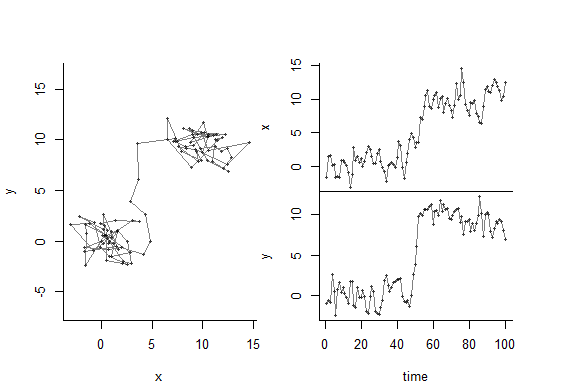
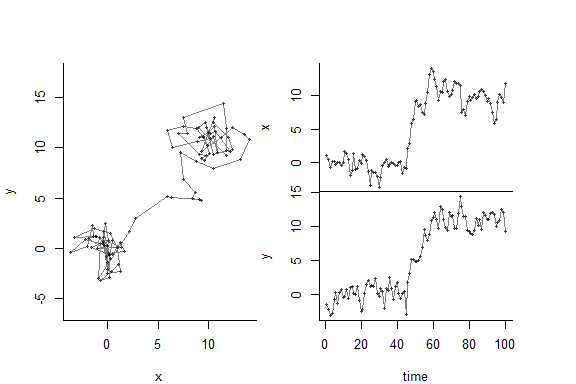
second

diff --git a/inst/doc/marcher.html b/inst/doc/marcher.html
@@ -12,7 +12,7 @@
 
 <meta name="author" content="Elie Gurarie" />
 
-<meta name="date" content="2016-12-30" />
+<meta name="date" content="2017-02-22" />
 
 <title>Migration and range change estimation: the marcher package</title>
 
@@ -70,7 +70,7 @@ code > span.in { color: #60a0b0; font-weight: bold; font-style: italic; } /* Inf
 
 <h1 class="title toc-ignore">Migration and range change estimation: the <code>marcher</code> package</h1>
 <h4 class="author"><em>Elie Gurarie</em></h4>
-<h4 class="date"><em>2016-12-30</em></h4>
+<h4 class="date"><em>2017-02-22</em></h4>
 
 
 
@@ -128,15 +128,15 @@ SimTrack &lt;-<span class="st"> </span><span class="kw">simulate.shift</span>(<s
 <p>The simulation data frame containes three columns:</p>
 <div class="sourceCode"><pre class="sourceCode r"><code class="sourceCode r"><span class="kw">head</span>(SimTrack)</code></pre></div>
 <pre><code>##   T          X          Y
-## 1 1 -1.6488553 -0.9702352
-## 2 2  1.4496027 -0.5584981
-## 3 3  1.6148577 -0.8349132
-## 4 4  0.1493029  2.6527208
-## 5 5  0.2856061  0.5563407
-## 6 6 -1.5499137 -2.4237571</code></pre>
+## 1 1  1.0282659 -1.5964410
+## 2 2  0.3947072 -2.3293812
+## 3 3 -0.7147833 -3.1756598
+## 4 4  0.1378058 -2.9440205
+## 5 5  0.1745564 -0.7599813
+## 6 6 -0.3612618  0.2642460</code></pre>
 <p>Which are easily plotted with <code>scan.track</code>:</p>
 <div class="sourceCode"><pre class="sourceCode r"><code class="sourceCode r"><span class="kw">with</span>(SimTrack, <span class="kw">scan.track</span>(<span class="dt">time=</span> T, <span class="dt">x =</span> X, <span class="dt">y =</span> Y))</code></pre></div>
[2 lines of base64/hex data omitted]
 <p>Note, the <code>scan.track()</code> function will also automatically make this plot to a three-column data frame with names “T”,“X” and “Y”, so the above figure can be generated via: <code>scan.track(SimTrack)</code> as well.</p>
 <p>It is now quick and easy to compare models with more or less position and velocity autocorrelation (especially with the magic of <code>magrittr</code> piping!):</p>
 <div class="sourceCode"><pre class="sourceCode r"><code class="sourceCode r">MWN.sim &lt;-<span class="st"> </span><span class="kw">simulate.shift</span>(<span class="dt">T =</span> time, <span class="dt">tau =</span> <span class="ot">NULL</span>, <span class="dt">mu =</span> Mean, <span class="dt">A =</span> area) %T&gt;%<span class="st"> </span><span class="kw">scan.track</span>()
@@ -169,7 +169,8 @@ MOUF.sim.random &lt;-<span class="st"> </span><span class="kw">simulate.shift</s
 <div id="in-one-line-of-code" class="section level2">
 <h2>… in one line of code</h2>
 <p>The key function for estimating range shifts is <code>estimate.shift</code>. There are many options in this function, and different ways to optimize for a specific task (or help it from breaking down), with further explanations in sections below. In the simplest implementation you simply run the function on time and location data:</p>
-<div class="sourceCode"><pre class="sourceCode r"><code class="sourceCode r"><span class="kw">summary</span>(MWN.fit)</code></pre></div>
+<div class="sourceCode"><pre class="sourceCode r"><code class="sourceCode r">MWN.fit &lt;-<span class="st"> </span><span class="kw">with</span>(MWN.sim, <span class="kw">estimate.shift</span>(<span class="dt">T=</span>T, <span class="dt">X=</span>X, <span class="dt">Y=</span>Y))
+<span class="kw">summary</span>(MWN.fit)</code></pre></div>
 <pre><code>## Range shift estimation:
 ## 
 ## 100 observations over time range 1 to 100.
